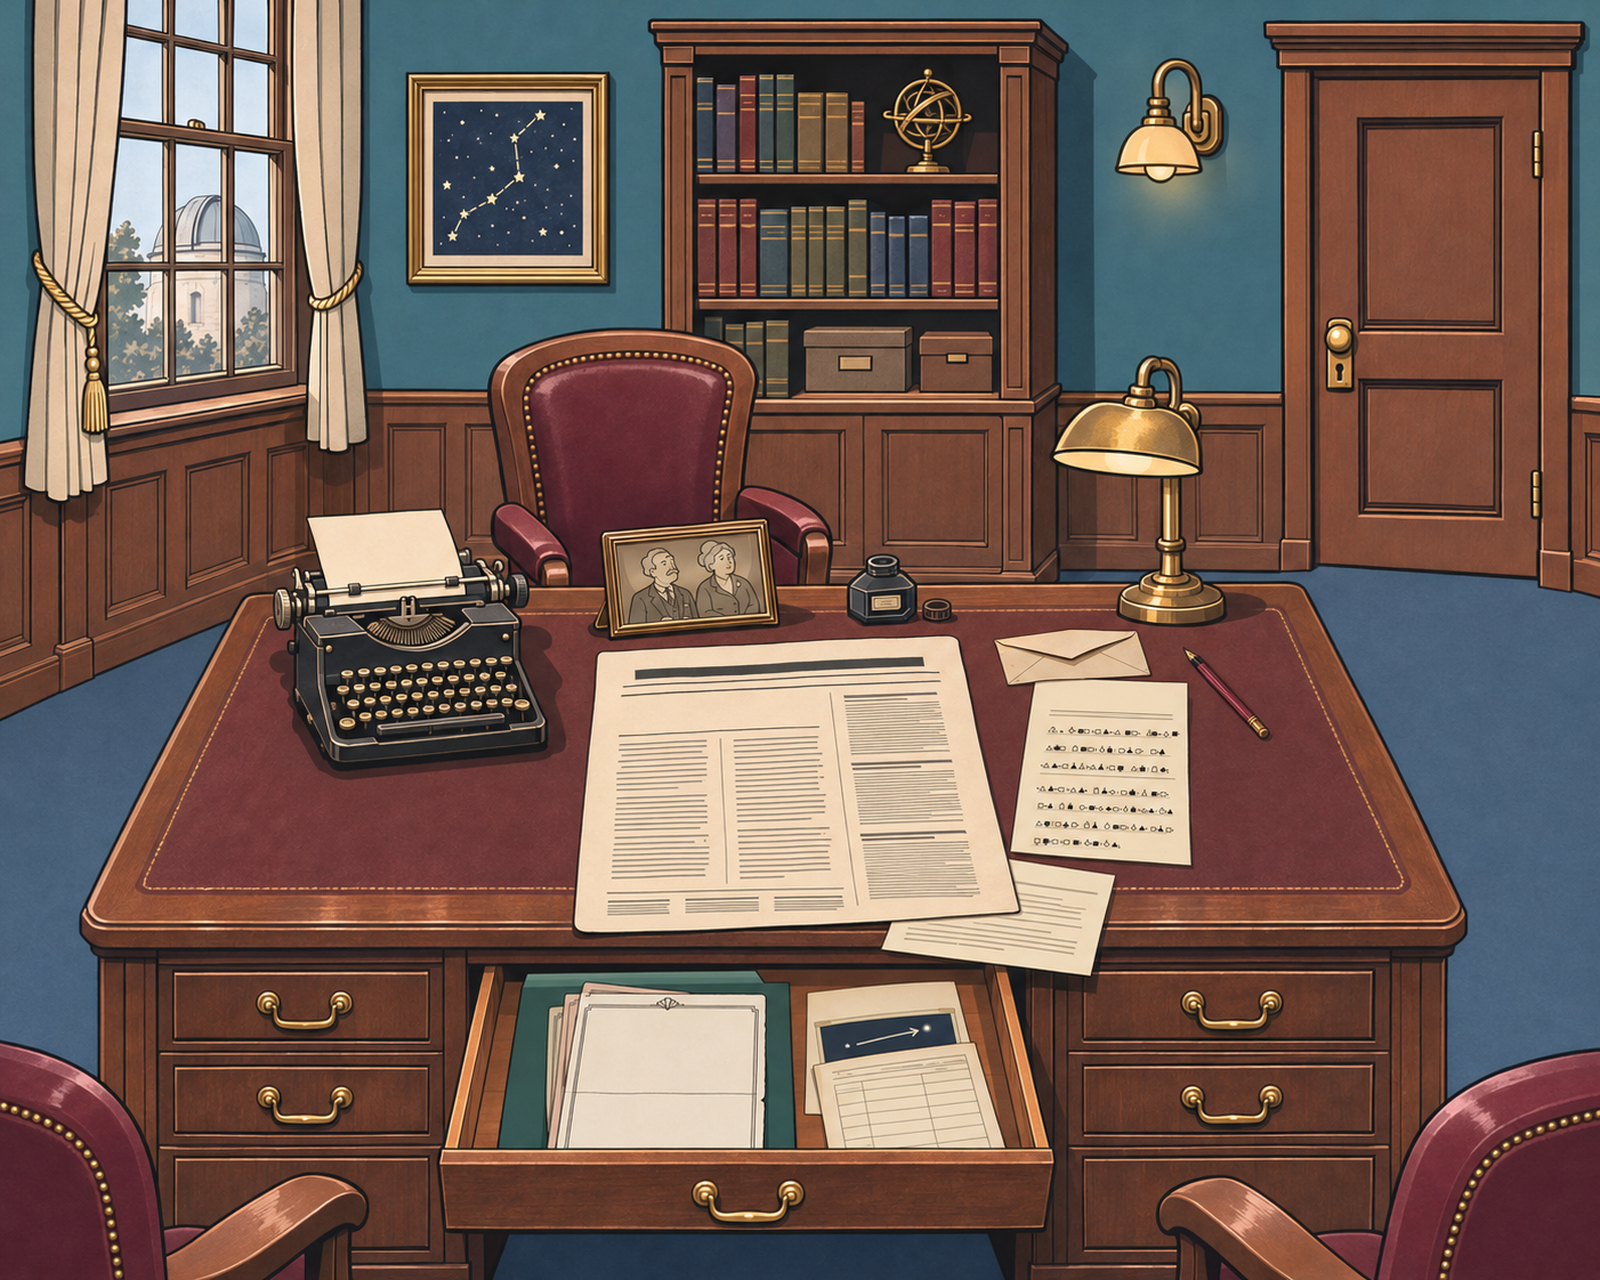
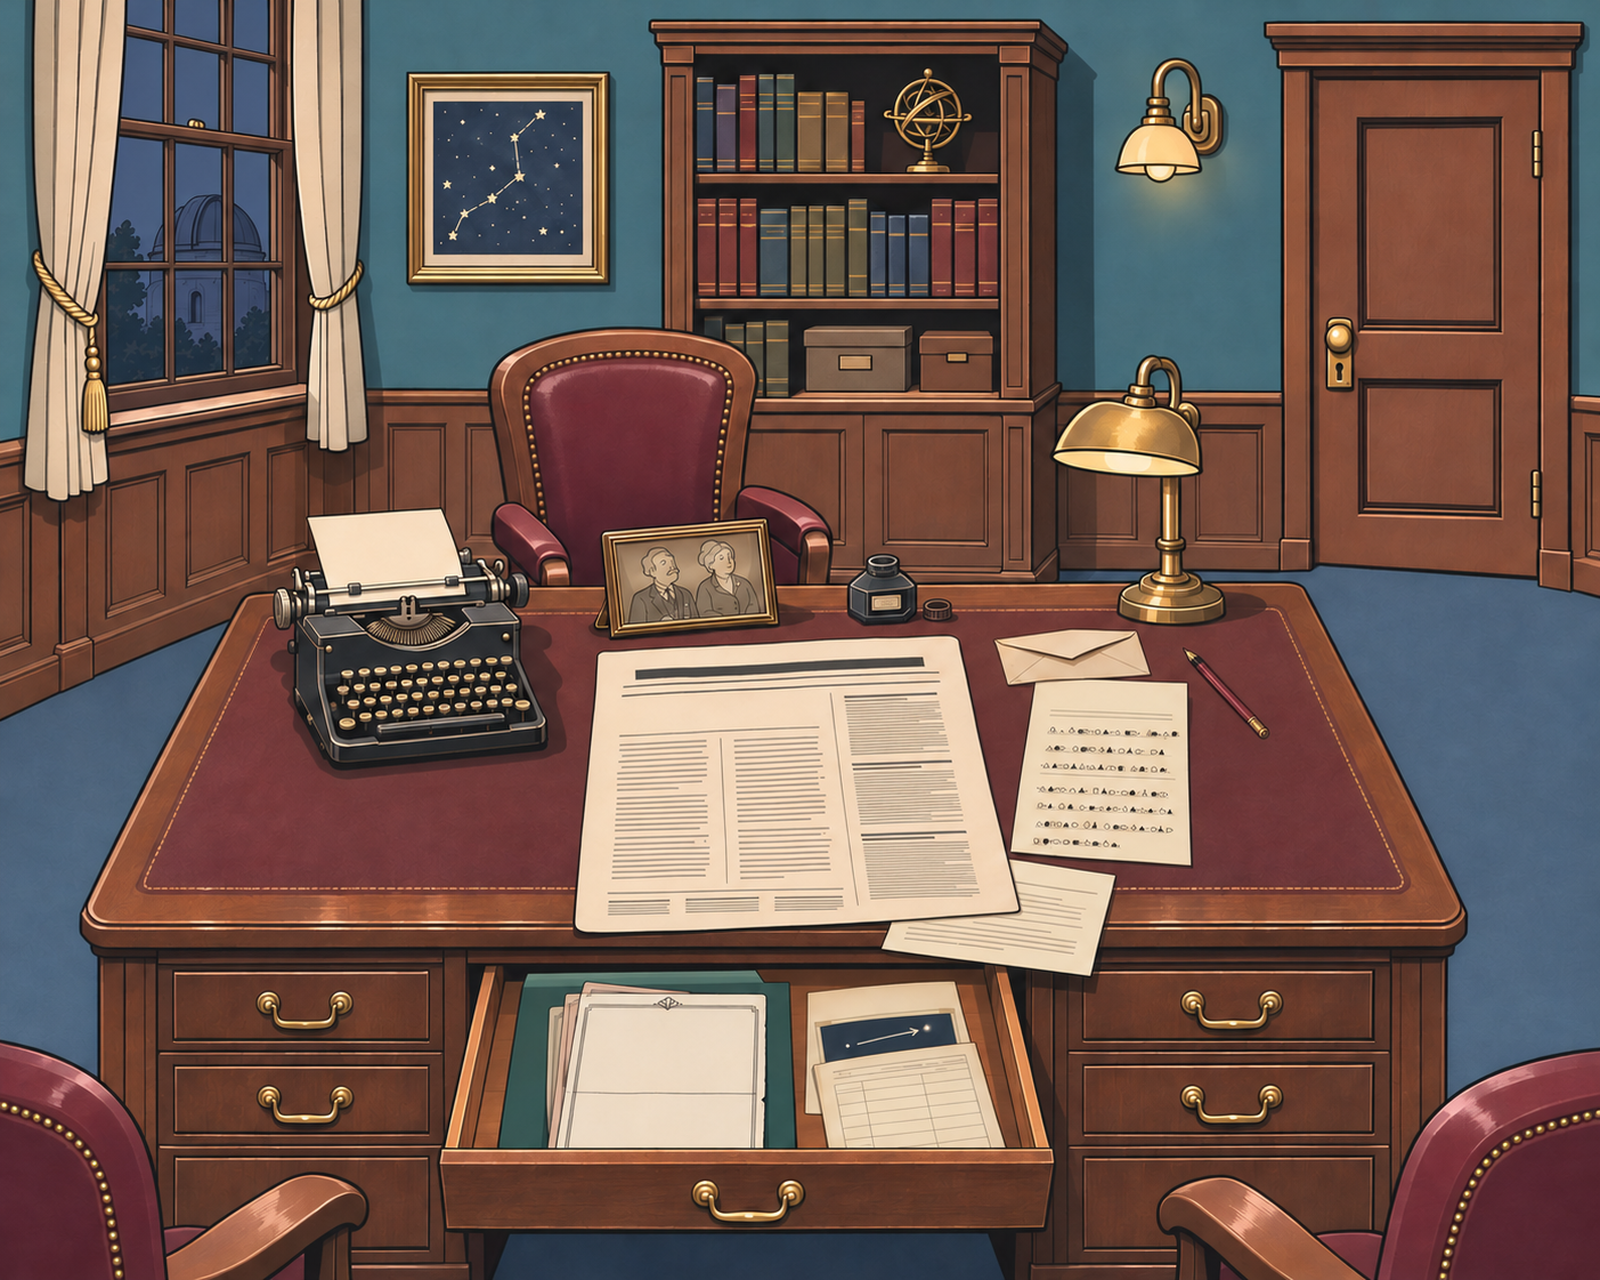
Set director office exterior to evening

diff --git a/traces-of-guilt/index.html b/traces-of-guilt/index.html
@@ -9,7 +9,7 @@
   <title>Traces of Guilt</title>
   <link rel="canonical" href="https://iontail.github.io/traces-of-guilt/">
   <link rel="stylesheet" href="style.css?v=solution-verdict">
-  <script src="game.js?v=office-illustration" type="module"></script>
+  <script src="game.js?v=office-evening" type="module"></script>
 </head>
 <body>
   <svg class="icon-definitions" aria-hidden="true" xmlns="http://www.w3.org/2000/svg">

diff --git a/traces-of-guilt/case-data.js b/traces-of-guilt/case-data.js
@@ -47,7 +47,7 @@ export const caseFile = {
       title: "연구소장 집무실",
       action: "소장실 둘러보기",
       mapLabel: "소장실",
-      image: "planetarium/office.png?v=office-illustration",
+      image: "planetarium/office.png?v=office-evening",
       position: [72, 18.5],
       align: "end",
       kind: "장소"

diff --git a/traces-of-guilt/game.js b/traces-of-guilt/game.js
@@ -1,4 +1,4 @@
-import { caseFile } from "./case-data.js?v=office-illustration";
+import { caseFile } from "./case-data.js?v=office-evening";
 
 const entrance = document.querySelector(".entrance");
 const enterButton = entrance.querySelector(".enter-room");
